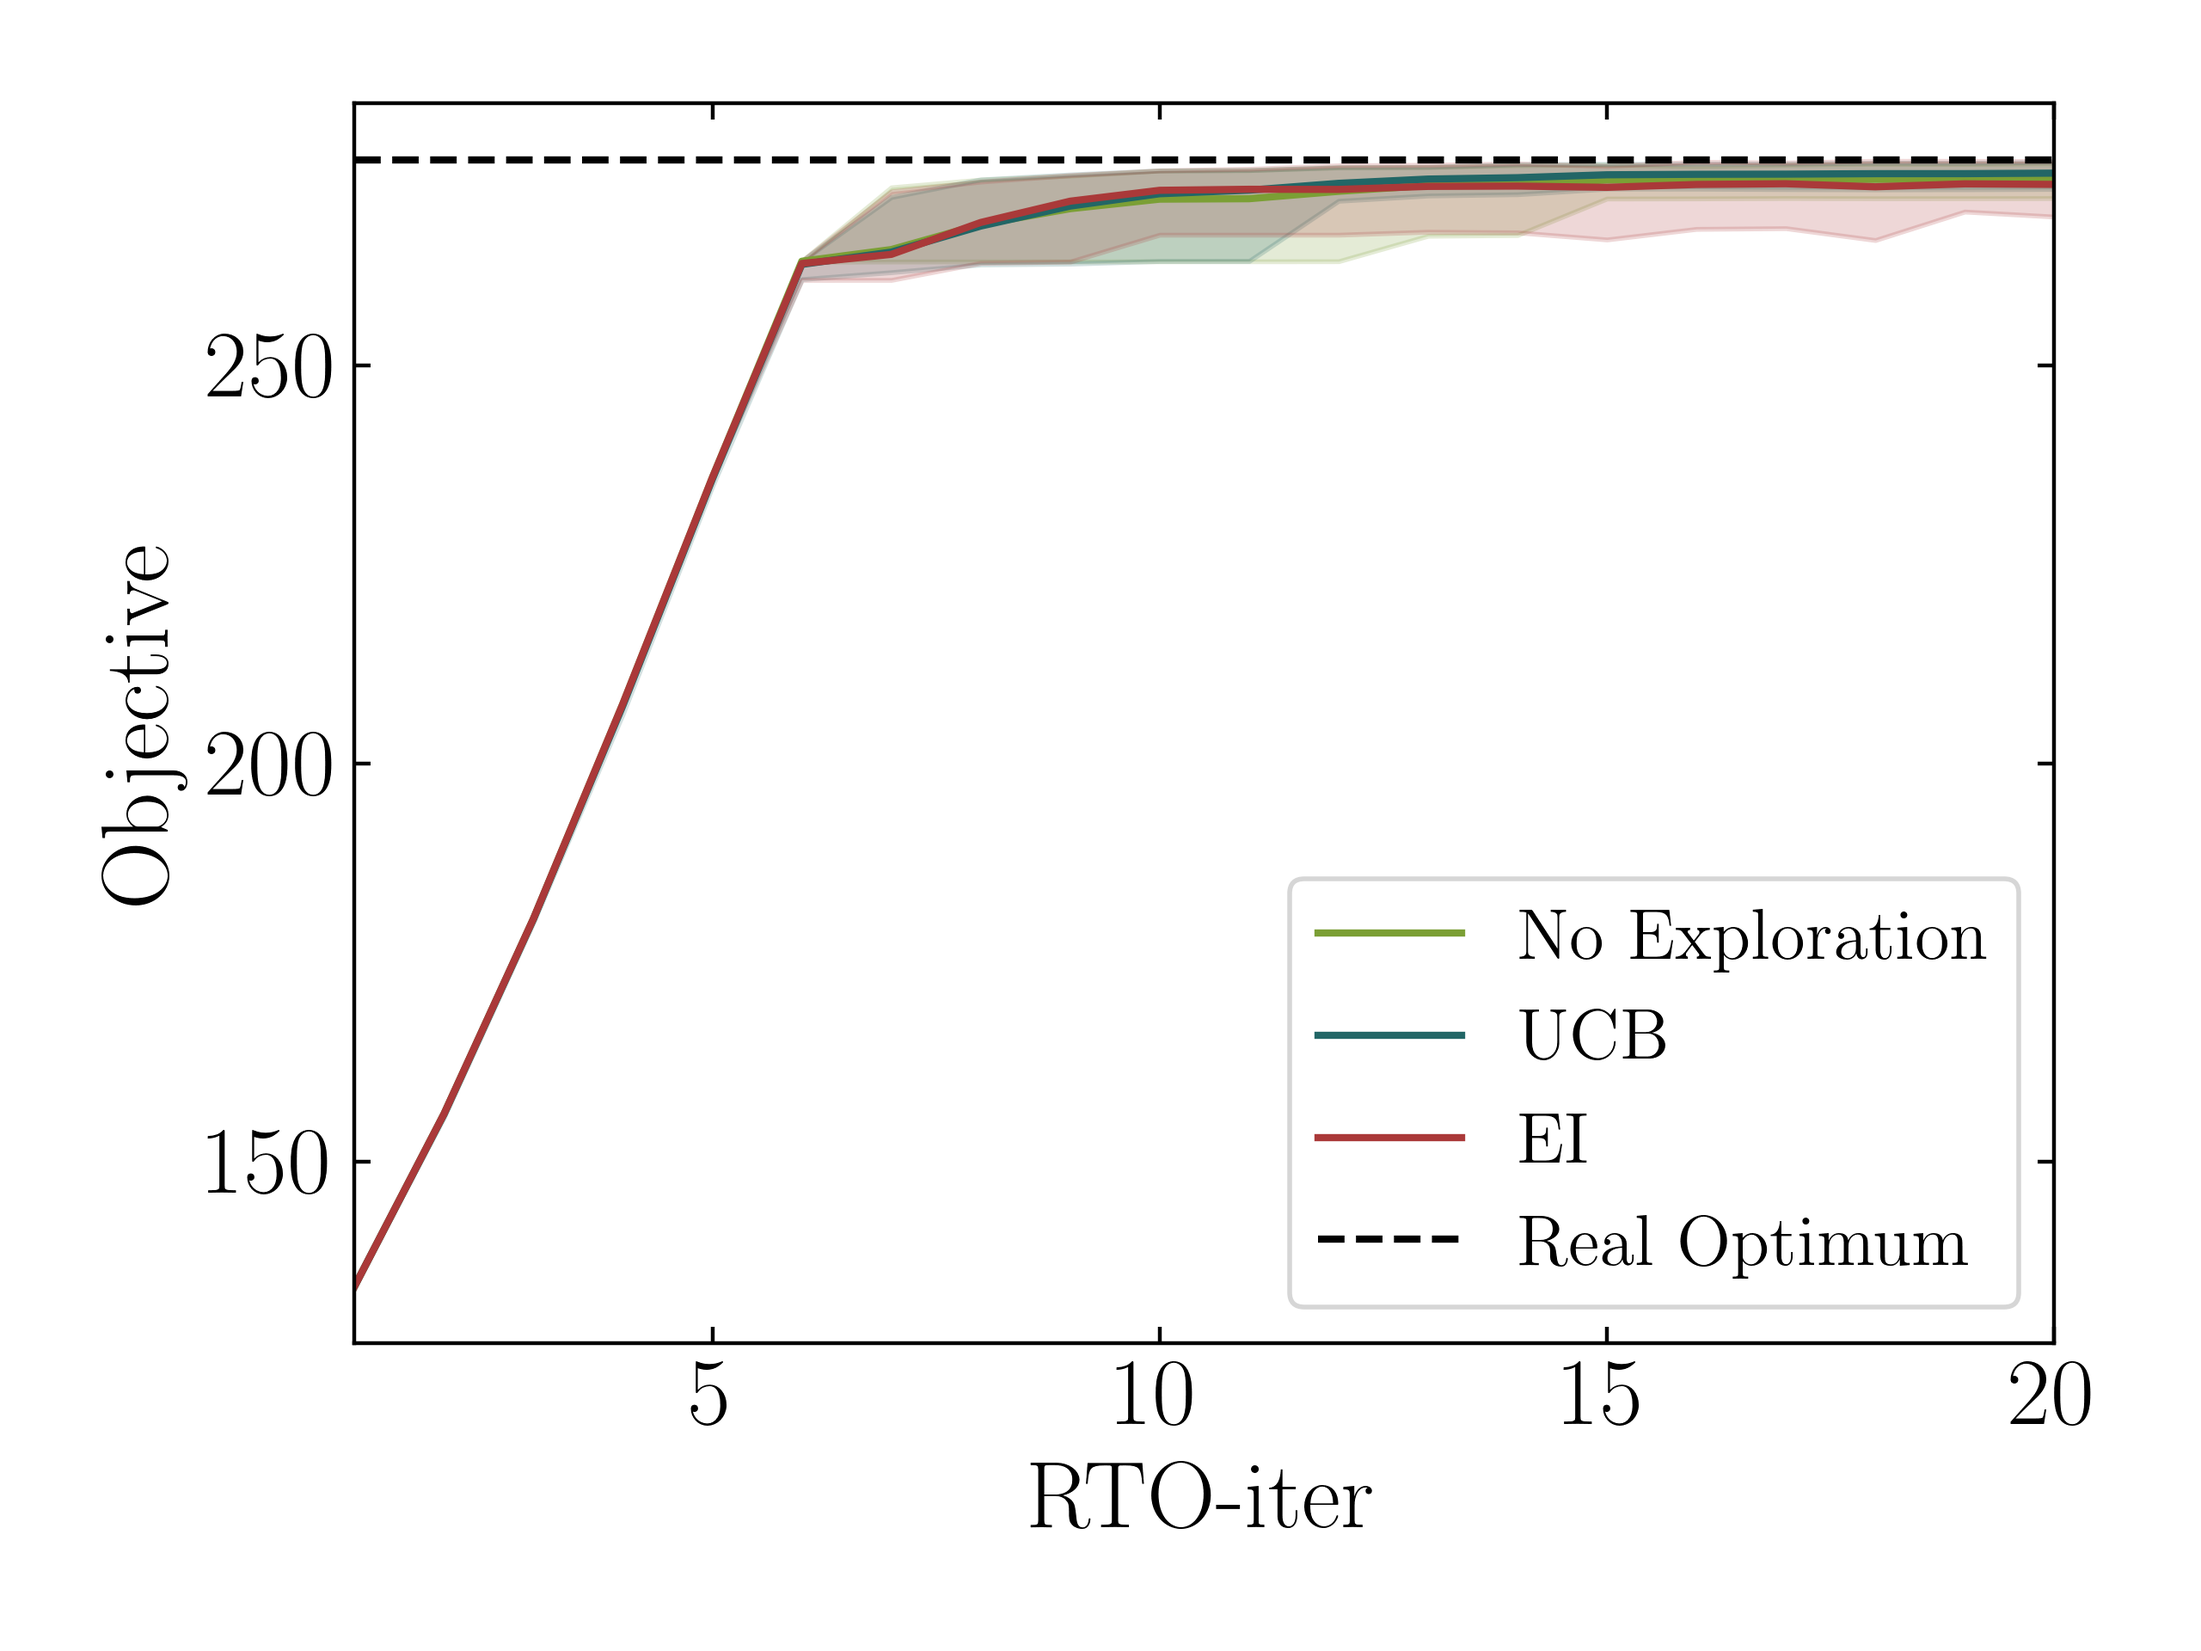
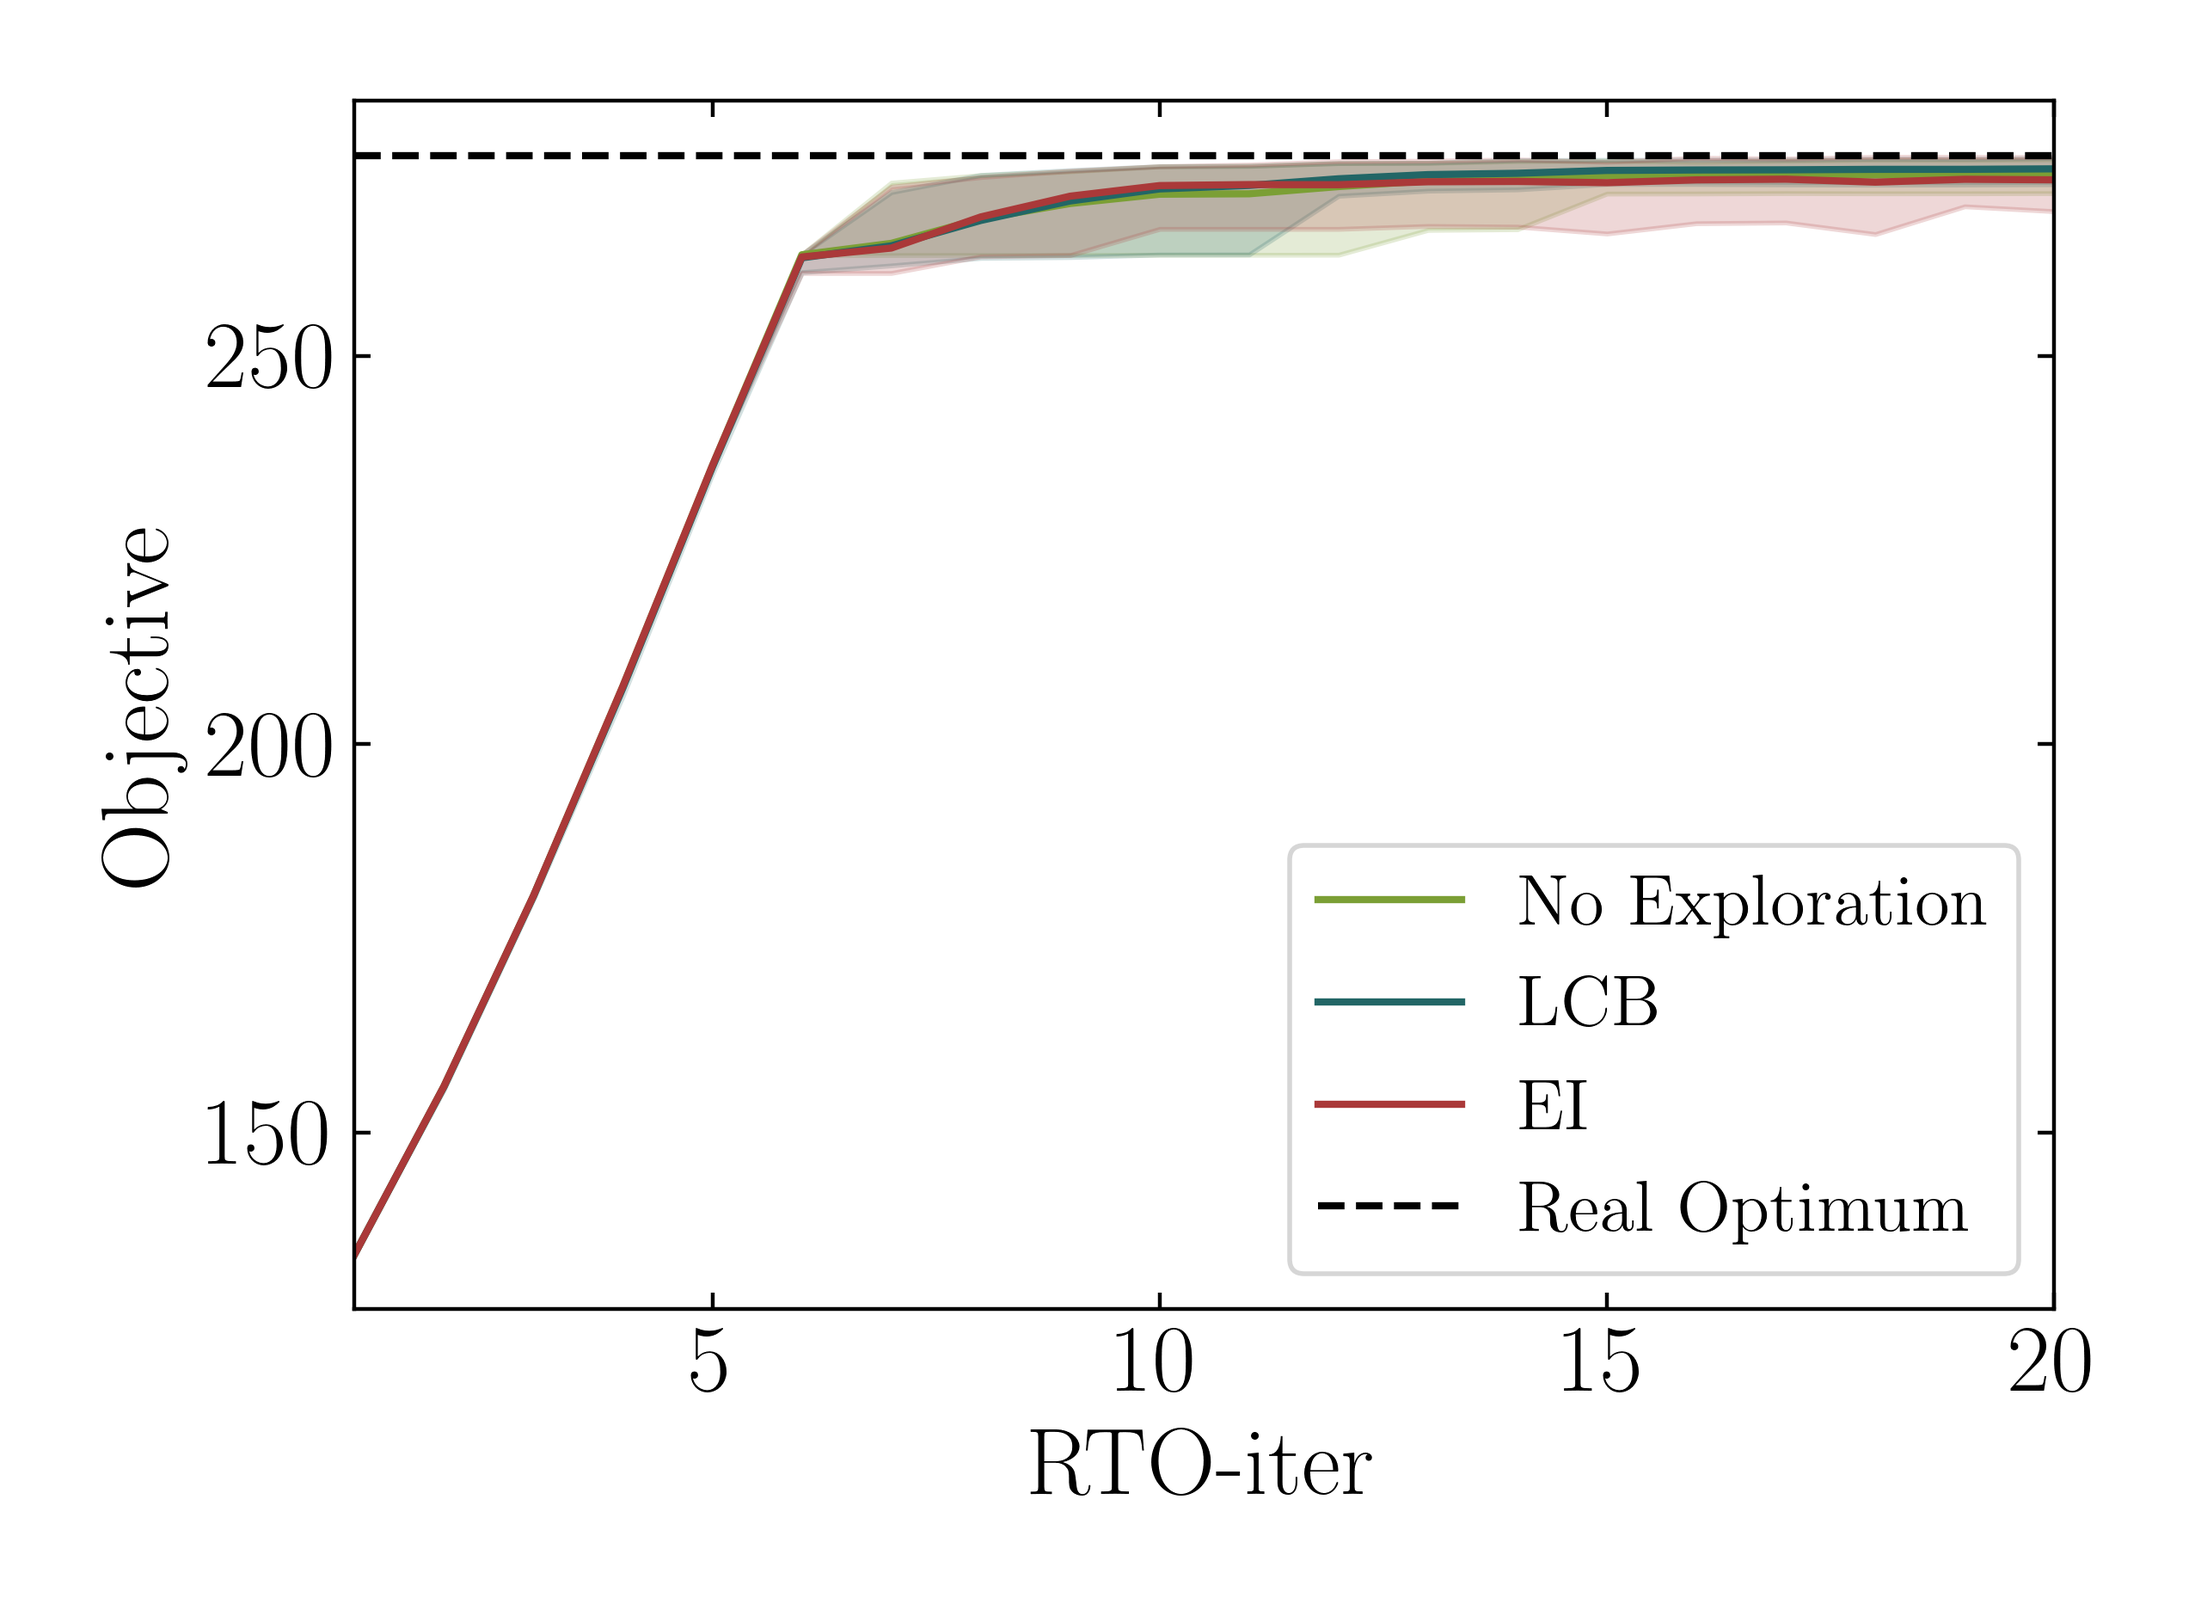
add_plotting_simple

diff --git a/run_simple/plots_RTO_simple.py b/run_simple/plots_RTO_simple.py
@@ -429,7 +429,7 @@ def plot_obj(obj):
     plt.rcParams.update(params)
 
     obj_no_prior_with_exploration_ei = obj('no_prior_with_exploration_ei')
-    obj_with_prior_with_exploration_ei = obj('with_prior_with_exploration_ei_new2')#'with_prior_with_exploration_ei')
+    obj_with_prior_with_exploration_ei = obj('with_prior_with_exploration_ei')#'with_prior_with_exploration_ei')
     # obj_with_prior_with_exploration_ei_noise  = obj('with_prior_with_exploration_ei_noise')
     # obj_no_prior_with_exploration_ei_noise    = obj('no_prior_with_exploration_ei_noise')
     obj_no_prior_with_exploration_ucb = obj('no_prior_with_exploration_ucb')
@@ -459,7 +459,7 @@ def plot_obj(obj):
         plt.fill_between(np.linspace(1, ni, ni), np.quantile(obj_, 0.05, axis=0)
                          , np.quantile(obj_, 0.95, axis=0),
                          alpha=0.2, color='#' + color[i])
-    plt.plot(np.linspace(1, ni, ni), [275.811] * ni, 'k--', label='Real Optimum')
+    plt.plot(np.linspace(1, ni, ni), [0.145] * ni, 'k--', label='Real Optimum')
     plt.xlabel('RTO-iter')
     plt.ylabel('Objective')
     plt.xlim(1, ni)
@@ -468,7 +468,7 @@ def plot_obj(obj):
     plt.tick_params(axis="y", direction="in")
     plt.tick_params(axis="x", direction="in")
     plt.tight_layout()
-    plt.savefig('figs_WO/EXplore_no_explore_obj.png', dpi=400)
+    plt.savefig('figs/EXplore_no_explore_obj.png', dpi=400)
     plt.close()
 
     data = [obj_no_prior_with_exploration_ei[-1],
@@ -489,7 +489,7 @@ def plot_obj(obj):
         plt.fill_between(np.linspace(1, ni, ni), np.quantile(obj_, 0.05, axis=0)
                          , np.quantile(obj_, 0.95, axis=0),
                          alpha=0.2, color='#' + color[i])
-    plt.plot(np.linspace(1, ni, ni), [275.811] * ni, 'k--', label='Real Optimum')
+    plt.plot(np.linspace(1, ni, ni), [0.145] * ni, 'k--', label='Real Optimum')
 
     plt.xlabel('RTO-iter')
     plt.ylabel('Objective')
@@ -499,7 +499,7 @@ def plot_obj(obj):
     plt.tick_params(axis="y", direction="in")
     plt.tick_params(axis="x", direction="in")
     plt.tight_layout()
-    plt.savefig('figs_WO/EI_prior.png', dpi=400)
+    plt.savefig('figs/EI_prior.png', dpi=400)
     plt.close()
 
     data = [  # obj_no_prior_with_exploration_ei[-1],
@@ -522,7 +522,7 @@ def plot_obj(obj):
                          alpha=0.2, color='#' + color[i])
 
         print(obj_min.min())
-    plt.plot(np.linspace(1, ni, ni), [275.811] * ni, 'k--', label='Real Optimum')
+    plt.plot(np.linspace(1, ni, ni), [0.145] * ni, 'k--', label='Real Optimum')
 
     plt.xlabel('RTO-iter')
     plt.ylabel('Objective')
@@ -532,7 +532,7 @@ def plot_obj(obj):
     plt.tick_params(axis="y", direction="in")
     plt.tick_params(axis="x", direction="in")
     plt.tight_layout()
-    plt.savefig('figs_WO/UCB_prior.png', dpi=400)
+    plt.savefig('figs/UCB_prior.png', dpi=400)
     plt.close()
 
     data = [  # obj_no_prior_with_exploration_ei[-1],
@@ -555,7 +555,7 @@ def plot_obj(obj):
                          alpha=0.2, color='#' + color[i])
 
         print(obj_min.min())
-    plt.plot(np.linspace(1, ni, ni), [275.811] * ni, 'k--', label='Real Optimum')
+    plt.plot(np.linspace(1, ni, ni), [0.145] * ni, 'k--', label='Real Optimum')
 
     plt.xlabel('RTO-iter')
     plt.ylabel('Objective')
@@ -565,7 +565,7 @@ def plot_obj(obj):
     plt.tick_params(axis="y", direction="in")
     plt.tick_params(axis="x", direction="in")
     plt.tight_layout()
-    plt.savefig('figs_WO/noexplore_prior.png', dpi=400)
+    plt.savefig('figs/noexplore_prior.png', dpi=400)
     plt.close()
     return print(1)
 
@@ -617,7 +617,7 @@ def plot_obj_noise(obj):
         plt.fill_between(np.linspace(1, ni, ni), np.quantile(obj_, 0.05, axis=0)
                          , np.quantile(obj_, 0.95, axis=0),
                          alpha=0.2, color='#' + color[i])
-    plt.plot(np.linspace(1, ni, ni), [275.811] * ni, 'k--', label='Real Optimum')
+    plt.plot(np.linspace(1, ni, ni), [0.145] * ni, 'k--', label='Real Optimum')
     plt.xlabel('RTO-iter')
     plt.ylabel('Objective')
     plt.xlim(1, ni)
@@ -626,7 +626,7 @@ def plot_obj_noise(obj):
     plt.tick_params(axis="y", direction="in")
     plt.tick_params(axis="x", direction="in")
     plt.tight_layout()
-    plt.savefig('figs_noise_WO/EXplore_no_explore_obj.png', dpi=400)
+    plt.savefig('figs_noise/EXplore_no_explore_obj.png', dpi=400)
     plt.close()
 
     data = [obj_no_prior_with_exploration_ei_noise[-1],
@@ -647,7 +647,7 @@ def plot_obj_noise(obj):
         plt.fill_between(np.linspace(1, ni, ni), np.quantile(obj_, 0.05, axis=0)
                          , np.quantile(obj_, 0.95, axis=0),
                          alpha=0.2, color='#' + color[i])
-    plt.plot(np.linspace(1, ni, ni), [275.811] * ni, 'k--', label='Real Optimum')
+    plt.plot(np.linspace(1, ni, ni), [0.145] * ni, 'k--', label='Real Optimum')
 
     plt.xlabel('RTO-iter')
     plt.ylabel('Objective')
@@ -657,7 +657,7 @@ def plot_obj_noise(obj):
     plt.tick_params(axis="y", direction="in")
     plt.tick_params(axis="x", direction="in")
     plt.tight_layout()
-    plt.savefig('figs_noise_WO/EI_prior.png', dpi=400)
+    plt.savefig('figs_noise/EI_prior.png', dpi=400)
     plt.close()
 
     data = [  # obj_no_prior_with_exploration_ei[-1],
@@ -680,7 +680,7 @@ def plot_obj_noise(obj):
                          alpha=0.2, color='#' + color[i])
 
         print(obj_min.min())
-    plt.plot(np.linspace(1, ni, ni), [275.811] * ni, 'k--', label='Real Optimum')
+    plt.plot(np.linspace(1, ni, ni), [0.145] * ni, 'k--', label='Real Optimum')
 
     plt.xlabel('RTO-iter')
     plt.ylabel('Objective')
@@ -690,7 +690,7 @@ def plot_obj_noise(obj):
     plt.tick_params(axis="y", direction="in")
     plt.tick_params(axis="x", direction="in")
     plt.tight_layout()
-    plt.savefig('figs_noise_WO/UCB_prior.png', dpi=400)
+    plt.savefig('figs_noise/UCB_prior.png', dpi=400)
     plt.close()
 
     data = [  # obj_no_prior_with_exploration_ei[-1],
@@ -713,7 +713,7 @@ def plot_obj_noise(obj):
                          alpha=0.2, color='#' + color[i])
 
         print(obj_min.min())
-    plt.plot(np.linspace(1, ni, ni), [275.811] * ni, 'k--', label='Real Optimum')
+    plt.plot(np.linspace(1, ni, ni), [0.145] * ni, 'k--', label='Real Optimum')
 
     plt.xlabel('RTO-iter')
     plt.ylabel('Objective')
@@ -723,6 +723,6 @@ def plot_obj_noise(obj):
     plt.tick_params(axis="y", direction="in")
     plt.tick_params(axis="x", direction="in")
     plt.tight_layout()
-    plt.savefig('figs_noise_WO/noexplore_prior.png', dpi=400)
+    plt.savefig('figs_noise/noexplore_prior.png', dpi=400)
     plt.close()
     return print(1)

diff --git a/run_simple/main_simple.py b/run_simple/main_simple.py
@@ -17,13 +17,13 @@ from casadi import *
 from sub_uts.utilities_2 import *
 from sub_uts.systems import *
 import pickle
-from plots_RTO import plot_obj, Plot_simple
+from plots_RTO import plot_obj, Plot_simple, compute_obj_simple
 if not(os.path.exists('figs')):
     os.mkdir('figs')
 if not(os.path.exists('figs_noise')):
     os.mkdir('figs_noise')
 
-
+print(2)
 # plot_obj()
 #----------2) EI-PRIOR-UNKNOWN NOISE----------#
 #---------------------------------------------#
